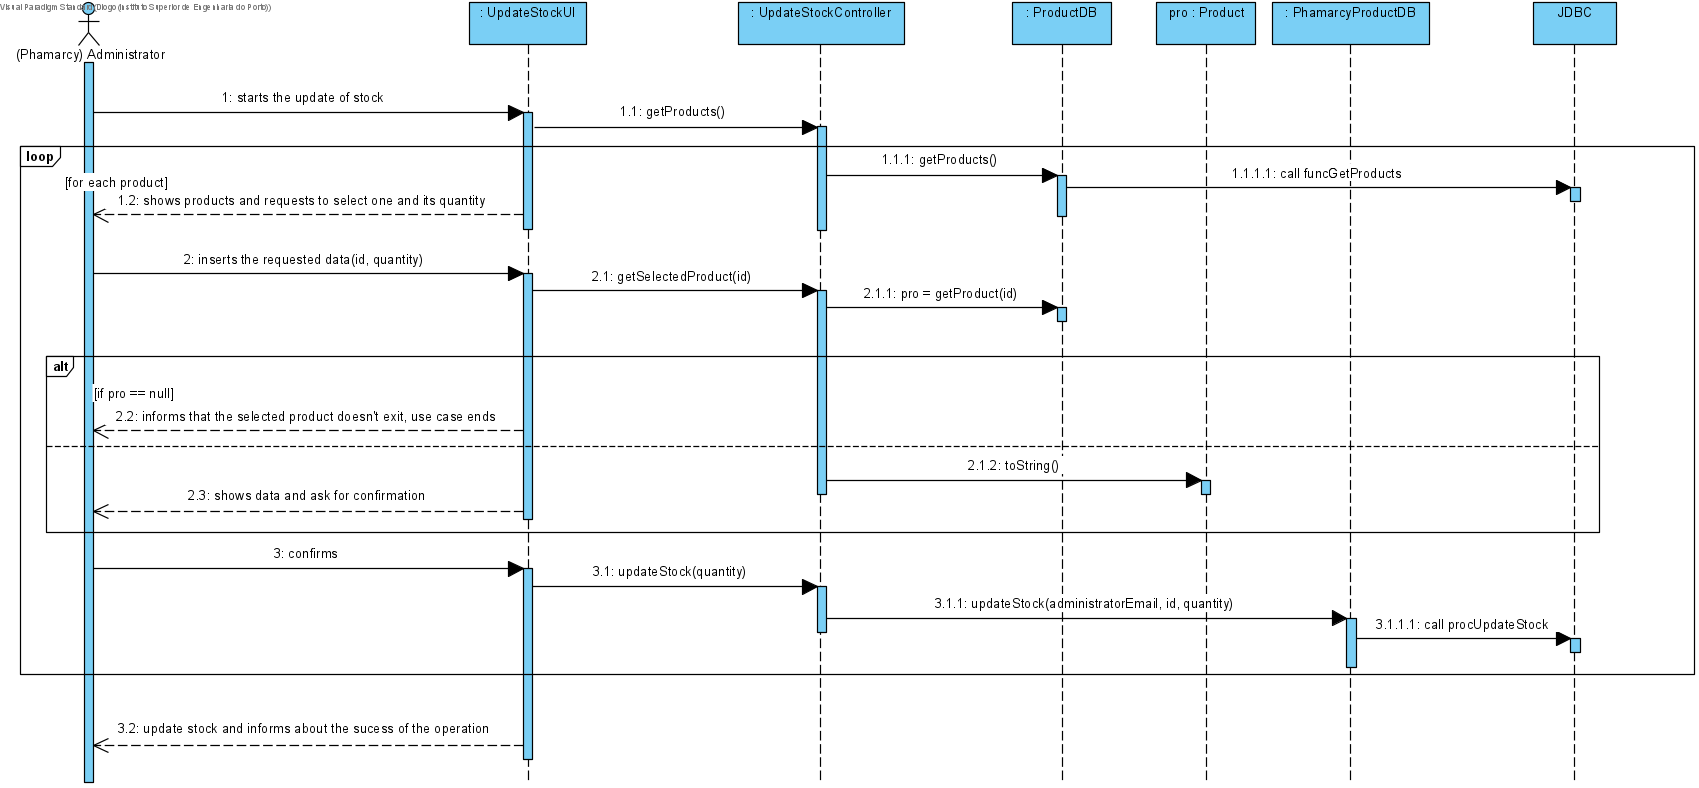
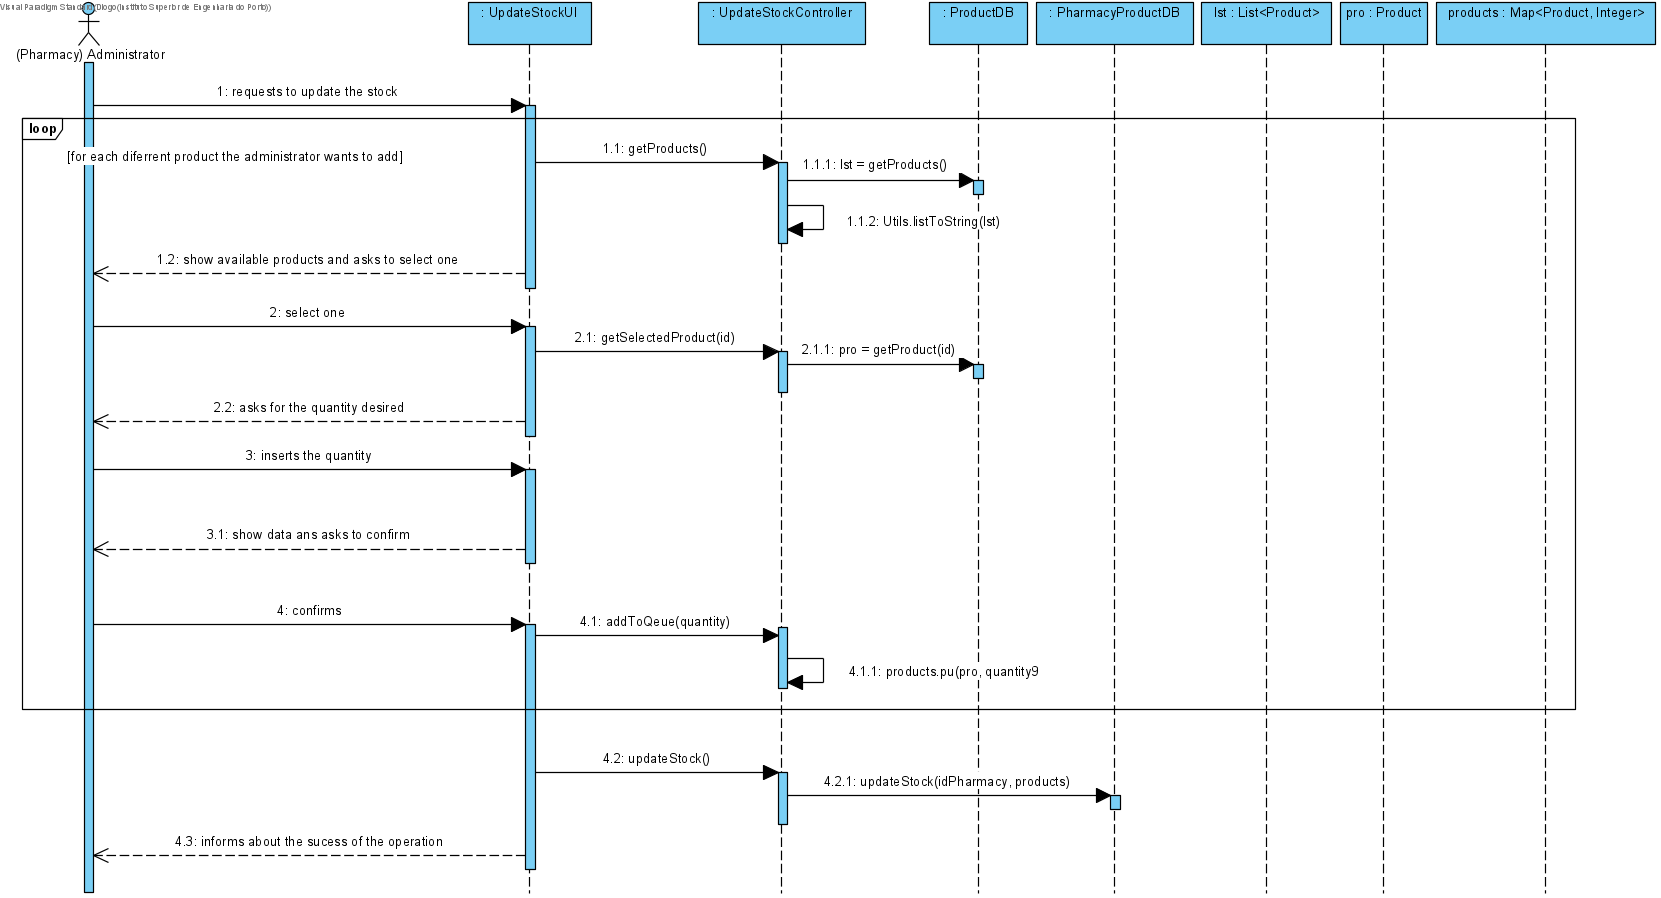
MEN09-236 #close Maintenance [Fix bugs]

diff --git a/src/test/java/lapr/project/controller/UpdateStockControllerTest.java b/src/test/java/lapr/project/controller/UpdateStockControllerTest.java
@@ -11,37 +11,41 @@ import java.util.List;
 import lapr.project.data.PharmacyStockDB;
 import lapr.project.data.ProductDB;
 import lapr.project.model.Product;
+import lapr.project.utils.Utils;
 import org.junit.jupiter.api.AfterEach;
 import org.junit.jupiter.api.AfterAll;
 import org.junit.jupiter.api.BeforeEach;
 import org.junit.jupiter.api.BeforeAll;
 import org.junit.jupiter.api.Test;
 import static org.junit.jupiter.api.Assertions.*;
-import static org.mockito.Matchers.anyInt;
 import static org.mockito.Mockito.mock;
 import static org.mockito.Mockito.when;
 
 /**
  *
- * @author Helder
+ * @author Diogo
  */
 public class UpdateStockControllerTest {
     
-    private static UpdateStockController usc;
-    private static ProductDB pdb;
-    private static final int idPharmacy=1;
-    private static Product pro;
-    private static List<Product> prds = new ArrayList<>();
-    private static Product p;
+    private static UpdateStockController controller;
+    private static int id = 1;
+    private static List<Product> products;
+    private static Product p1;
     private static Product p2;
+    private static Product p3;
     
     public UpdateStockControllerTest() {
     }
     
     @BeforeAll
     public static void setUpClass() {
-       
-        
+        p1 = new Product(1, "Product 1", 0.56, 23);
+        p2 = new Product(2, "Product 2", 4, 3.99);
+        p3 = new Product(3, "Product 3", 1.2, 9.5);
+        products = new ArrayList<>();
+        products.add(p1);
+        products.add(p2);
+        products.add(p3);
     }
     
     @AfterAll
@@ -50,29 +54,55 @@ public class UpdateStockControllerTest {
     
     @BeforeEach
     public void setUp() throws SQLException {
-        pdb=mock(ProductDB.class);
-        usc = new UpdateStockController(idPharmacy);
-        p=new Product(1,"brufen",5.0,5.0);
-        p2=new Product(2,"benerun",5.0,5.0);
-        prds.add(p);
-        prds.add(p2);
-        when(pdb.getProducts()).thenReturn(prds);
-        when(pdb.getProduct(1)).thenReturn(p);
+        ProductDB pdb = mock(ProductDB.class);
+        PharmacyStockDB ppdb = mock(PharmacyStockDB.class);
+
+        
+        when(pdb.getProducts()).thenReturn(products);
+        when(pdb.getProduct(1)).thenReturn(p1);
+        when(pdb.getProduct(2)).thenReturn(p2);
+        when(pdb.getProduct(3)).thenReturn(p3);
+        controller = new UpdateStockController(pdb, ppdb, id);
     }
-    
-    @AfterEach
-    public void tearDown() {
-    }
+
 
     /**
      * Test of getProducts method, of class UpdateStockController.
      */
     @Test
     public void testGetProducts() throws Exception {
-        assertEquals(true, pdb.getProducts().contains(p));
-        assertEquals(true, pdb.getProducts().contains(p2));
-        assertEquals(2, pdb.getProducts().size());
+        assertEquals(Utils.listToString(products), controller.getProducts());
     }
 
+    /**
+     * Test of getSelectedProduct method, of class UpdateStockController.
+     */
+    @Test
+    public void testGetSelectedProduct() throws Exception {
+        assertEquals(p1.toString(), controller.getSelectedProduct(1));
+        assertEquals(p2.toString(), controller.getSelectedProduct(2));
+        assertEquals(p3.toString(), controller.getSelectedProduct(3));
+        assertEquals(null, controller.getSelectedProduct(4));
+    }
+
+    /**
+     * Test of addToQueue method, of class UpdateStockController.
+     */
+    @Test
+    public void testAddToQueue() {
+        assertFalse(controller.addToQueue(5));
+    }
+
+    /**
+     * Test of updateStock method, of class UpdateStockController.
+     */
+    @Test
+    public void testUpdateStock() throws Exception {
+        assertFalse(controller.updateStock());
+        
+        controller.getSelectedProduct(1);
+        controller.addToQueue(4);
+        assertTrue(controller.updateStock());
+    }
     
 }

diff --git a/src/main/java/lapr/project/ui/UpdateStockUI.java b/src/main/java/lapr/project/ui/UpdateStockUI.java
@@ -1,0 +1,74 @@
+/*
+ * To change this license header, choose License Headers in Project Properties.
+ * To change this template file, choose Tools | Templates
+ * and open the template in the editor.
+ */
+package lapr.project.ui;
+
+import java.sql.SQLException;
+import java.util.Scanner;
+import java.util.logging.Level;
+import java.util.logging.Logger;
+import lapr.project.controller.UpdateStockController;
+import lapr.project.data.PharmacyStockDB;
+import lapr.project.data.ProductDB;
+
+/**
+ *
+ * @author Diogo
+ */
+public class UpdateStockUI {
+    private UpdateStockController controller;
+    private static Scanner read = new Scanner(System.in);
+
+    public UpdateStockUI(int idPharmacy) {
+        controller = new UpdateStockController(new ProductDB(), new PharmacyStockDB(),idPharmacy);
+        try {
+            showAvailableProducts();
+        } catch (SQLException ex) {
+            System.out.println("An error occurred when tried to communicate with the database.");
+        }
+    }
+    
+    private void showAvailableProducts() throws SQLException{
+        System.out.println("Available Products:");
+        for(String s : controller.getProducts()){
+            System.out.println(s);
+        }
+        System.out.println("Select the desired product to add to the stock (id) or 0 to end");
+        selectOne();
+    }
+    
+    private void selectOne() throws SQLException{
+        int id = Integer.parseInt(read.nextLine());
+        if(id != 0){
+            System.out.println();
+            String res = controller.getSelectedProduct(id);
+            if(res == null){
+               System.out.println("Invalid product.");
+                System.out.println();
+                showAvailableProducts();
+            }else{
+                insertQuantity(res);
+            }
+        }
+        controller.updateStock();
+    }
+    
+    private void insertQuantity(String product) throws SQLException{
+        System.out.println();
+        System.out.println("Insert the quantity");
+        int quantity = Integer.parseInt(read.nextLine());
+        System.out.println("Product selected:");
+        System.out.println(product);
+        System.out.println("Do you want to add " +quantity+ " of this product? (y/n)");
+        String ans = read.nextLine();
+        if(ans.equalsIgnoreCase("y")){
+            controller.addToQueue(quantity);
+        }
+        System.out.println();
+        showAvailableProducts();
+    }
+    
+    
+}

diff --git a/src/main/java/lapr/project/controller/UpdateStockController.java b/src/main/java/lapr/project/controller/UpdateStockController.java
@@ -7,10 +7,13 @@ package lapr.project.controller;
 
 import java.sql.SQLException;
 import java.util.ArrayList;
+import java.util.HashMap;
 import java.util.List;
+import java.util.Map;
 import lapr.project.data.PharmacyStockDB;
 import lapr.project.data.ProductDB;
 import lapr.project.model.Product;
+import lapr.project.utils.Utils;
 
 /**
  *
@@ -22,33 +25,42 @@ public class UpdateStockController {
     private final PharmacyStockDB ppdb;
     private final int idPharmacy;
     private Product pro;
+    private Map<Product, Integer> products;
 
-    public UpdateStockController(int idPharmacy) {
-        this.pdb = new ProductDB();
-        this.ppdb = new PharmacyStockDB();
+    public UpdateStockController(ProductDB pdb, PharmacyStockDB ppdb, int idPharmacy) {
+        this.pdb = pdb;
+        this.ppdb = ppdb;
         this.idPharmacy = idPharmacy;
+        products = new HashMap<>();
     }
+
+
     
     public List<String> getProducts() throws SQLException{
-        List<String> prds = new ArrayList<>();
-        for(Product p : pdb.getProducts()){
-            prds.add(p.toString());
-        }
+        List<String> prds = Utils.listToString(pdb.getProducts());
         return prds;
     }
     
     public String getSelectedProduct(int id) throws SQLException{
         pro = pdb.getProduct(id);
-        return pdb== null ? null : pro.toString();
+        return pro == null ? null : pro.toString();
     }
     
-    public boolean updateStock(int quantity){
-        if(pro == null){
-            return false;
+    public boolean addToQueue(int quantity){
+        if(pro != null){
+            products.put(pro, quantity);
+            return true;
         }
-        
-        ppdb.updateStock(idPharmacy, pro.getId(), quantity);
-        return true;
+        return false;
+    }
+    
+    
+    public boolean updateStock() throws SQLException{
+        if(!products.isEmpty()){
+            ppdb.updateStock(idPharmacy, products);
+            return true;
+        }
+        return false;
     }
     
     

diff --git a/src/main/java/lapr/project/data/PharmacyStockDB.java b/src/main/java/lapr/project/data/PharmacyStockDB.java
@@ -21,9 +21,7 @@ import oracle.jdbc.OracleTypes;
 public class PharmacyStockDB extends DataHandler{
 
 
-    public void updateStock(int idPharmacy, int id, int quantity) {
-        throw new UnsupportedOperationException("Not supported yet."); //To change body of generated methods, choose Tools | Templates.
-    }
+
 
     public int getQuantity(int idPharmacy, int idProduct) {
         try (CallableStatement callStmt = getConnection().prepareCall("{ ? = call funcGetQuantity(?,?) }")) {
@@ -76,6 +74,21 @@ public class PharmacyStockDB extends DataHandler{
             
         }
            
+    }
+
+    public void updateStock(int idPharmacy, Map<Product, Integer> products) throws SQLException {
+        Connection con = getConnection();
+        try (CallableStatement callStmt = getConnection().prepareCall("{ call procAddToStock(?,?,?) }")) {
+            for (Product p : products.keySet()) {
+
+                callStmt.setInt(1, idPharmacy);
+                callStmt.setInt(2, p.getId());
+                callStmt.setInt(3, products.get(p));
+                
+                callStmt.execute();
+               
+            }
+        }
     }
 
 

diff --git a/src/test/java/lapr/project/controller/AddToCartControllerTest.java b/src/test/java/lapr/project/controller/AddToCartControllerTest.java
@@ -84,6 +84,11 @@ public class AddToCartControllerTest {
         assertEquals(p3.toString(), controller.getSelectedProduct(3));
         assertEquals(null, controller.getSelectedProduct(4));
     }
+    
+    @Test
+    public void testAddToQueue(){
+        assertFalse(controller.addToQueue(5));
+    }
 
    
 
@@ -92,9 +97,11 @@ public class AddToCartControllerTest {
      */
     @Test
     public void testAddToCart() throws Exception {
+        assertFalse(controller.addToCart());
+        
         controller.getSelectedProduct(1);
         controller.addToQueue(4);
-        controller.addToCart();
+        assertTrue(controller.addToCart());
     }
     
 }

diff --git a/src/main/java/lapr/project/controller/AddToCartController.java b/src/main/java/lapr/project/controller/AddToCartController.java
@@ -48,16 +48,20 @@ public class AddToCartController {
         return pro== null ? null : pro.toString();
     }
     
-    public void addToQueue(int quantity){
+    public boolean addToQueue(int quantity){
         if(pro != null){
-        products.put(pro, quantity);
+            products.put(pro, quantity);
+            return true;
         }
+        return false;
     }
     
-    public void addToCart() throws SQLException{
+    public boolean addToCart() throws SQLException{
         if(!products.isEmpty()){
             cpdb.saveShoppingCart(products, clientEmail);
+            return true;
         }
+        return false;
     }
     
     

diff --git a/src/main/java/lapr/project/model/Drone.java b/src/main/java/lapr/project/model/Drone.java
@@ -22,26 +22,7 @@ public class Drone extends Vehicle{
         super.setMotor(motor);
     }
 
-    @Override
-    public int getId() {
-        return super.getId(); 
-    }
 
-    @Override
-    public State getState() {
-        return super.getState(); 
-    }
-
-    @Override
-    public double getActualBat() {
-        return super.getActualBat(); //To change body of generated methods, choose Tools | Templates.
-    }
-
-    
-    @Override
-    public void setState(State state) {
-        super.setState(state); //To change body of generated methods, choose Tools | Templates.
-    }
     
     
     

diff --git a/src/main/java/lapr/project/ui/Main.java b/src/main/java/lapr/project/ui/Main.java
@@ -38,6 +38,7 @@ class Main {
         //AddToCartUI addToCart = new AddToCartUI("clien1@lapr3.com"); // FUNCIONA
         //MakeOrderUI makeOrder = new MakeOrderUI("clien1@lapr3.com"); // FUNCIONA
         //StartDeliveryRunUI startDelivery = new StartDeliveryRunUI(1, 67.5, "courier1@lapr3.com"); // FUNCIONA
+        // UpdateStockUI updateStock = new UpdateStockUI(1); // ADICIONA O DOBRO DO PEDIDO
 
 //        CalculatorExample calculatorExample = new CalculatorExample();
 //        int value = calculatorExample.sum(3, 5);

diff --git a/documentation/use_cases/UC12/UC12_UpdateStock.md b/documentation/use_cases/UC12/UC12_UpdateStock.md
@@ -1,8 +1,7 @@
 # UC12 - Update Stock
 
 ## 1. Requirements Engineering
-The (Phamarcy) administrator starts the update of stock. The system shows all available products and asks to select one and its quantity. The (Phamarcy) administrator inserts the requested data. The system shows data and asks to confirm. The (Phamarcy) administrator confirms. The system update the phamarcy stock and informs the administrator about the sucess of the operation.
-
+The (Phamarcy) administrator starts the update of stock. The system shows all available products and asks to select one. The (Phamarcy) administrator selects one product. The system asks to insert the desired quantity. The (Pharmacy) administrator inserts the quantity. The system shows data and asks to confirm. The (Pharmacy) administrator confirms. The system informs about the sucess of the operation.
 ## SSD
 ![UC12_SSD.png](UC12_SSD.png)
 
